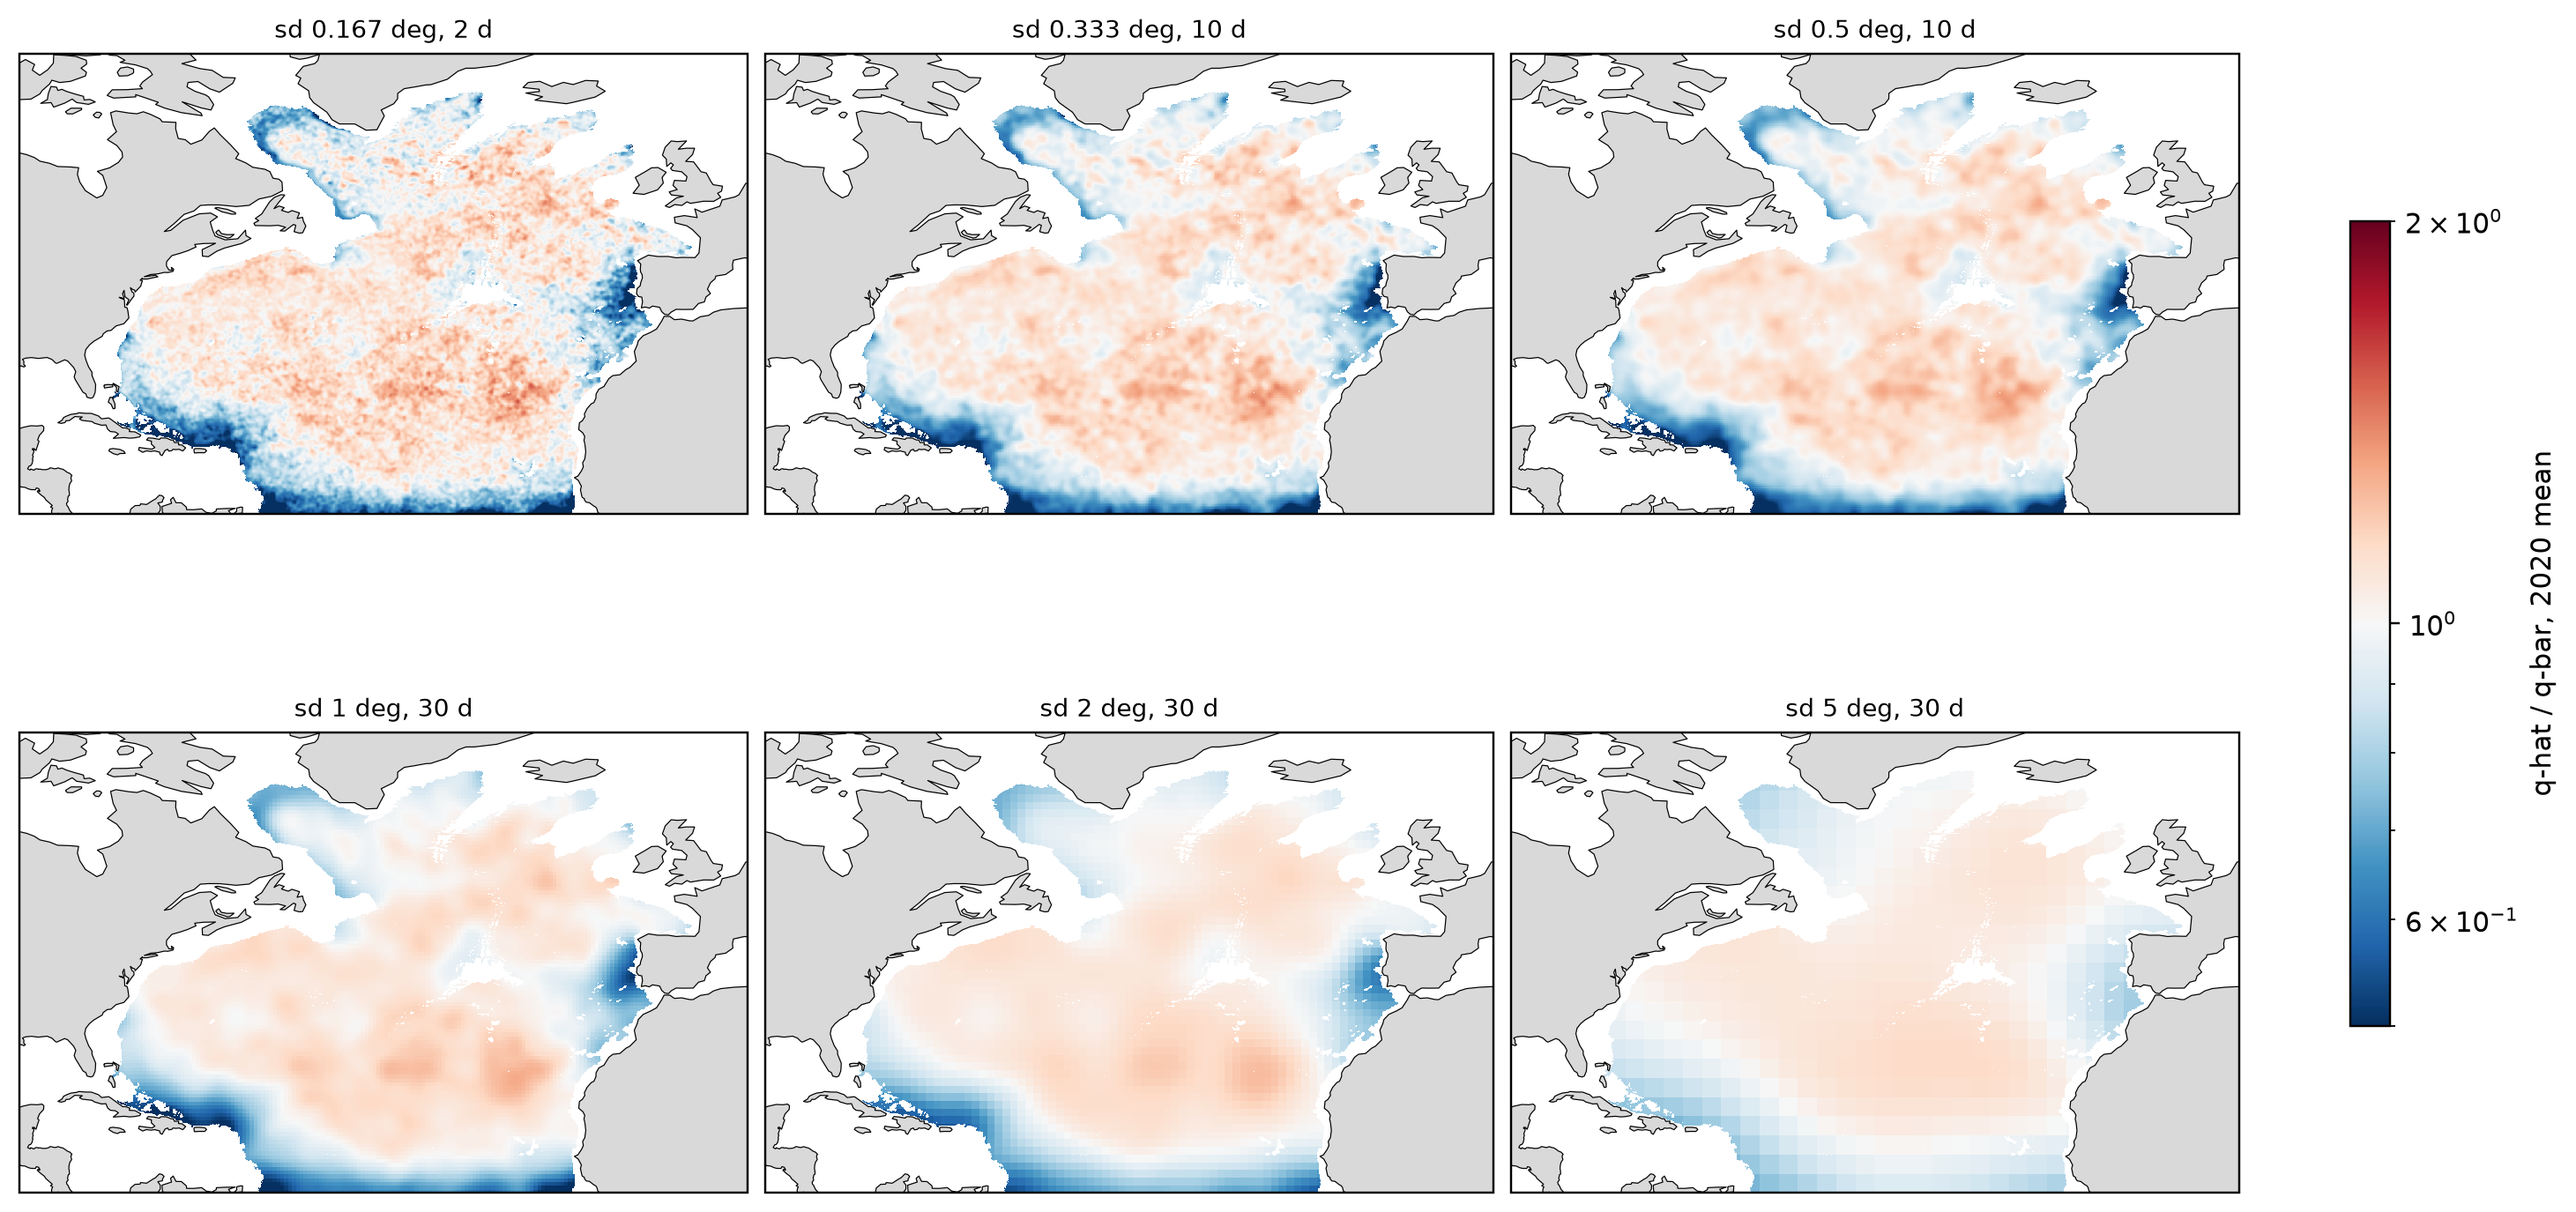
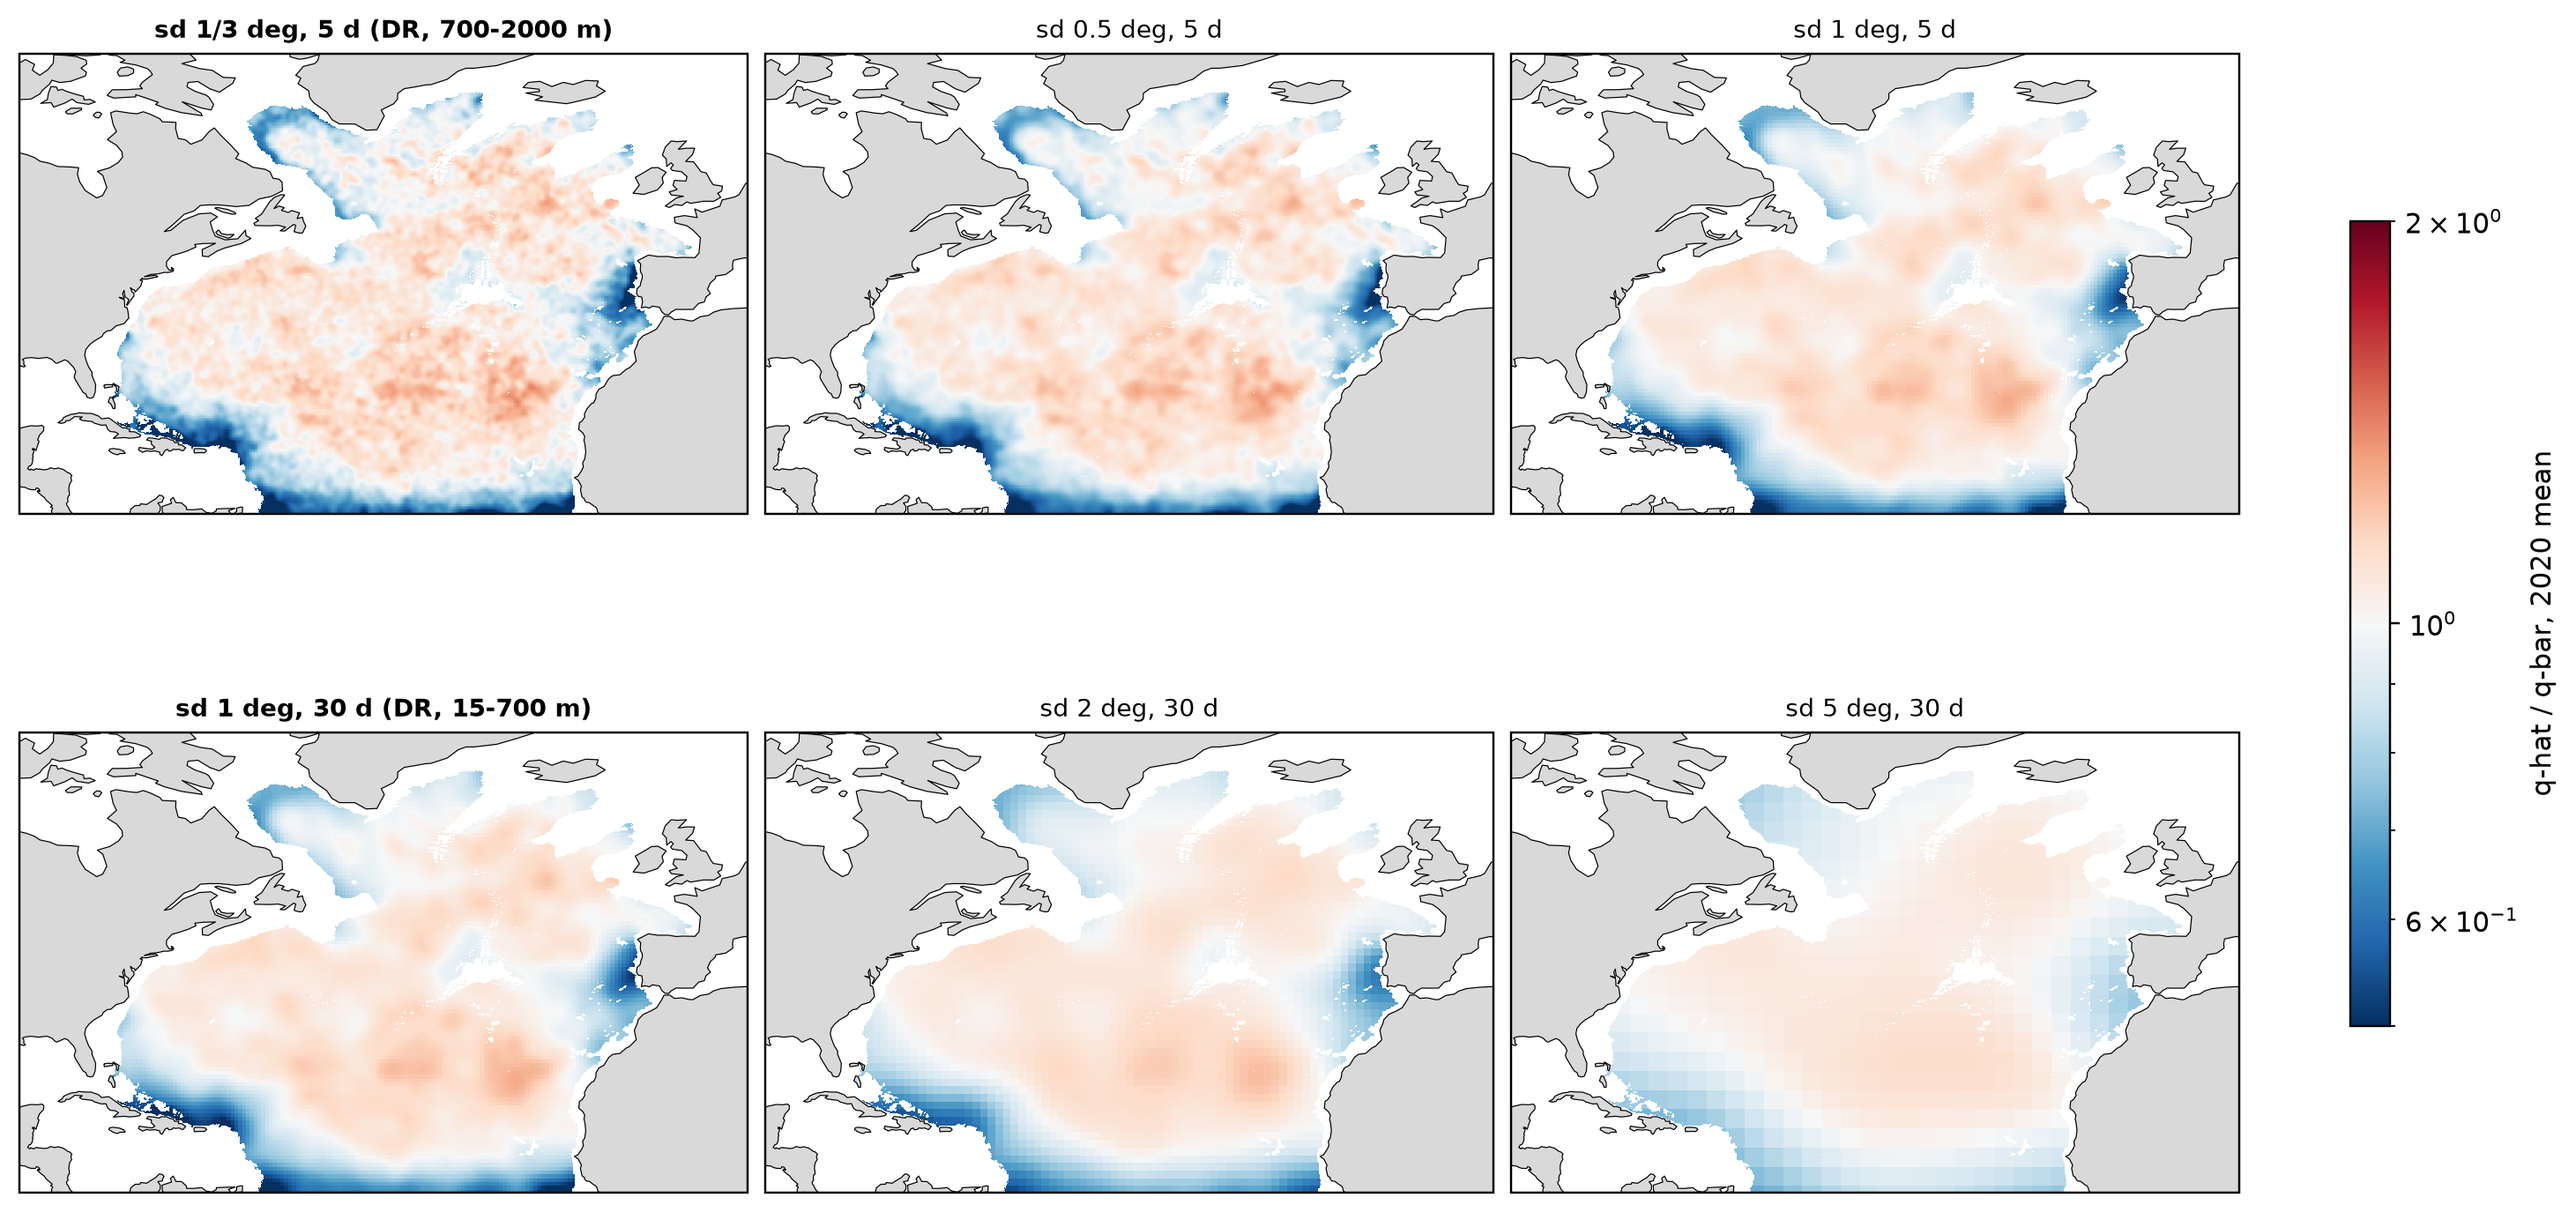
glorys_chain: single Bandwidth section with 2020 q-hat maps at six kernels (DR kernels marked), Hajek tied to the DR kernels, reweighting-effect tab in the yearly maps

diff --git a/code/osim/natl_sim.py b/code/osim/natl_sim.py
@@ -405,10 +405,11 @@ def q_dir(sig=QSIG):
     return os.path.join(OUT, f"q_s{sig[0]:g}_t{sig[1]:g}")
 
 
-def q_points(reps, all_reps=range(200), sigs=(QSIG,)):
+def q_points(reps, all_reps=range(200), sigs=(QSIG,), map_year=None):
     """Leave-one-replicate-out q-hat (in-domain profiles per km2 per day per replicate) at the in-domain
     analysis-year profiles of `reps`, from the in-domain profile positions of `all_reps`: Gaussian kernel on the
-    native grid block-summed as qhat_diag, edge-corrected by the kernel mass over the domain x [T0, T1]."""
+    native grid block-summed as qhat_diag, edge-corrected by the kernel mass over the domain x [T0, T1].
+    map_year: also save the annual mean of the all-replicate q-hat / q-bar in that year per sd (OUT/qhat_maps)."""
     from scipy import ndimage
     from osim import qhat_diag as qd
     lat, lon, _, A = qd.grid()
@@ -425,7 +426,8 @@ def q_points(reps, all_reps=range(200), sigs=(QSIG,)):
     for sig in sigs:
         out = q_dir(sig)
         os.makedirs(out, exist_ok=True)
-        with costlog.step(COSTS, "q_points", rep=f"{min(reps)}-{max(reps)} s{sig[0]:g}_t{sig[1]:g}", n=int(ev.sum())):
+        with costlog.step(COSTS, "q_points", rep=f"{min(reps, default='')}-{max(reps, default='')} s{sig[0]:g}_t{sig[1]:g}",
+                          n=int(ev.sum())):
             fs, ft = max(1, round(sig[0] / dx / 2)), max(1, int(sig[1] / 2 + 1e-6))
             pad = -(-int(TRUNC * sig[1] + 1) // ft) * ft
             ta, nt = d0 - pad, -(-(d1 - d0 + 2 * pad) // ft)
@@ -439,6 +441,20 @@ def q_points(reps, all_reps=range(200), sigs=(QSIG,)):
             shape = (nt, *asup.shape)
             cnt = lambda g: qd.counts(g.day.to_numpy(), g.i.to_numpy(), g.j.to_numpy(), ta, ft, fs, shape)
             S = f(cnt(P))
+            if map_year:
+                ya = (pd.Timestamp(f"{map_year}-01-01") - T0).days
+                ny_ = pd.Timestamp(f"{map_year}-12-31").dayofyear
+                kb = np.flatnonzero((ta + np.arange(nt) * ft >= ya) & (ta + np.arange(nt) * ft < ya + ny_))
+                ok = (asup > 0) & (aden > 0)
+                qa = np.where(ok, (S[kb] / tden[kb, None, None]).mean(0) / (R * np.where(ok, aden, 1)), np.nan)
+                qa /= np.nansum(qa * asup) / asup[ok].sum()
+                c = lambda x, n: x[: n * fs].reshape(n, fs).mean(1) if len(x) >= n * fs else np.r_[x, x[-1] + dx * np.arange(1, n * fs - len(x) + 1)].reshape(n, fs).mean(1)
+                tag = f"s{sig[0]:g}_t{sig[1]:g}"
+                mp = os.path.join(OUT, "qhat_maps", f"maps_{map_year}.npz")
+                os.makedirs(os.path.dirname(mp), exist_ok=True)
+                old = dict(np.load(mp)) if os.path.exists(mp) else {}
+                np.savez_compressed(mp, **old, **{tag: qa.astype(np.float32), f"lat_{tag}": c(lat, qa.shape[0]),
+                                                  f"lon_{tag}": c(lon, qa.shape[1])})
             for r, g in P[ev].groupby("rep"):
                 k = (np.floor((g.day.to_numpy() - ta) / ft).astype(np.int64), g.i.to_numpy() // fs, g.j.to_numpy() // fs)
                 q = ((S - f(cnt(P[P.rep == r])))[k] / ((R - 1) * tden[k[0]] * aden[k[1], k[2]])).astype(np.float32)
@@ -1104,7 +1120,7 @@ def estimate_layer(rep, layer, maps, pf, fl, tr, sig=QSIG, jk=None):
 if __name__ == "__main__":
     ap = argparse.ArgumentParser()
     ap.add_argument("cmd", choices=["design", "advect", "profiles", "select", "gpgp_pilot", "cov_exact_test", "uniform", "stationary", "covfit", "covgather", "covpool", "estimate_layers", "spatial_diag", "quadrature", "fields", "oracle_prepare", "sample", "qpoints", "map",
-                                    "estimate", "estimate_layers", "spatial_diag"])
+                                    "estimate", "estimate_layers", "spatial_diag", "qmaps"])
     ap.add_argument("--rep", type=int, default=int(os.environ.get("SLURM_ARRAY_TASK_ID", 0)))
     ap.add_argument("--reps", help="first,last (inclusive): sample/qpoints chunk; q-hat's evaluation reps")
     ap.add_argument("--all-reps", type=int, help="qpoints: q-hat from replicates 0..N-1")
@@ -1120,6 +1136,7 @@ if __name__ == "__main__":
      "profiles": lambda: [profiles(r) for r in rr], "select": lambda: [select(r) for r in rr], "gpgp_pilot": gpgp_pilot, "cov_exact_test": cov_exact_test, "uniform": uniform_sampling, "stationary": stationary_sampling,
      "covfit": lambda: covfit(list(rr), a.rep), "covgather": lambda: [covgather(r) for r in rr], "covpool": lambda: covpool(list(rr)),
      "quadrature": quadrature, "sample": lambda: sample(rr), "qpoints": lambda: q_points(rr, range(a.all_reps or 200), sigs),
+     "qmaps": lambda: q_points([], range(a.all_reps or 200), sigs, map_year=a.year or 2020),
      "map": lambda: [run_map(a.rep, l, a.year and list(pd.date_range(f"{a.year}-01", f"{a.year}-12", freq="MS")))
                      for l in layers], "estimate_layers": lambda: [estimate_layers(r) for r in rr if os.path.exists(os.path.join(map_path(r), "folds.parquet"))],
      "spatial_diag": lambda: (spatial_diag(list(rr)), spatial_diag(list(rr), out=os.path.join(OUT, "spatial_diag_year.csv"), by_year=True)), "estimate": lambda: [estimate(r, g) for g in sigs for r in rr if os.path.exists(os.path.join(map_path(r), "folds.parquet"))]}[a.cmd]()

diff --git a/code/osim/natl_results.py b/code/osim/natl_results.py
@@ -150,15 +150,17 @@ def spatial_diag_year():
 
 
 def plot_spatial_years(dy, layer, kind):
-    """One map per year, common scale: kind "residual" the mean held-out residual at the profiles, "dr" DR's
-    correction per unit area, both at the production kernels."""
+    """One map per year, common scale, at the production kernels: kind "residual" the mean held-out residual at the
+    profiles, "dr" DR's correction per unit area, "reweight" their difference (its area-weighted sum is how far the
+    1/q-hat weighting moves the correction from the plain residual average)."""
     prod = ",".join(f"{ns.QSIG_LAYER[l][0]:g}/{ns.QSIG_LAYER[l][1]:g}" for l in ns.LAYER_NAMES)
     g = dy[(dy.layer == layer) & (dy.kernel == prod)]
-    v = g.e_mean if kind == "residual" else g.c_share / g.area_share
+    v = {"residual": g.e_mean, "dr": g.c_share / g.area_share, "reweight": g.c_share / g.area_share - g.e_mean}[kind]
     w = g.assign(v=v).pivot_table(index=["lat", "lon"], columns="year", values="v")
     vmax = np.nanquantile(np.abs(w.to_numpy()), 0.98)
     w.columns = [f"y{c}" for c in w.columns]
-    lab = "residual Z - map (GJ/m2)" if kind == "residual" else "DR correction (GJ/m2)"
+    lab = {"residual": "residual Z - map (GJ/m2)", "dr": "DR correction (GJ/m2)",
+           "reweight": "correction - residual (GJ/m2)"}[kind]
     return plot_cell_maps(w.reset_index(), [(c, c[1:], vmax, lab) for c in w.columns], ncol=4, one_cbar=True)
 
 
@@ -369,31 +371,32 @@ def plot_hajek_bandwidth(C, layer, source="profiles"):
     return fig
 
 
-def plot_qhat_maps(year=2020):
-    """Annual-mean q-hat / q-bar (daily positions) at several kernel sds, on one log colour scale."""
+QMAP_SIGS = [(0.3333, 5.0), (0.5, 5.0), (1.0, 5.0), (1.0, 30.0), (2.0, 30.0), (5.0, 30.0)]
+
+
+def plot_qhat_maps(year=2020, sigs=QMAP_SIGS):
+    """Annual-mean all-replicate q-hat / q-bar from profile positions (natl_sim qmaps) at several kernel sds, on the
+    native grid masked to the domain, one log colour scale; the production DR kernels are labelled."""
     import cartopy.crs as ccrs
     import cartopy.feature as cfeature
     from matplotlib.colors import LogNorm
     la, lo, m, _ = ns.domain()
-    panels = []
-    for kind in ("", "wide"):
-        z = np.load(os.path.join(ns.OUT, DIAG[kind], f"maps_{year}.npz"))
-        for k in [k for k in z.files if not k.startswith(("lat", "lon"))]:
-            s = k.split("_")[0][1:]
-            panels.append((k, z[f"lon_s{s}"], z[f"lat_s{s}"], z[k]))
+    z = np.load(os.path.join(ns.OUT, "qhat_maps", f"maps_{year}.npz"))
+    used = {v: k for k, v in ns.QSIG_LAYER.items()}
     fig, ax = plt.subplots(2, 3, figsize=(13.2, 7), squeeze=False, subplot_kw=dict(projection=ccrs.PlateCarree()),
                            layout="constrained")
-    for a, (k, x, y, q) in zip(ax.flat, panels):
-        s, t = k[1:].split("_t")
+    for a, sg in zip(ax.flat, sigs):
+        t = f"s{sg[0]:g}_t{sg[1]:g}"
+        q, y, x = z[t], z[f"lat_{t}"], z[f"lon_{t}"]
         q = q[np.abs(la[:, None] - y).argmin(1)][:, np.abs(lo[:, None] - x).argmin(1)]
         pc = a.pcolormesh(lo, la, np.where(m & (q > 0), q, np.nan), shading="nearest", norm=LogNorm(0.5, 2),
                           cmap="RdBu_r", rasterized=True, transform=ccrs.PlateCarree())
         a.add_feature(cfeature.LAND, facecolor="0.85", zorder=2)
         a.coastlines(lw=0.4, zorder=3)
         a.set_extent([lo.min(), lo.max(), ns.SOUTH, la.max()], crs=ccrs.PlateCarree())
-        a.set_title(f"sd {float(s):.3g} deg, {t} d", fontsize=9)
-    for a in ax.flat[len(panels):]:
-        a.set_visible(False)
+        lab = f" (DR, {LAYER_LAB[used[sg]]})" if sg in used else ""
+        a.set_title(f"sd {'1/3' if sg[0] < 0.34 else f'{sg[0]:g}'} deg, {sg[1]:g} d{lab}", fontsize=9,
+                    fontweight="bold" if lab else "normal")
     fig.colorbar(pc, ax=ax, shrink=0.6).set_label(f"q-hat / q-bar, {year} mean")
     return fig
 
